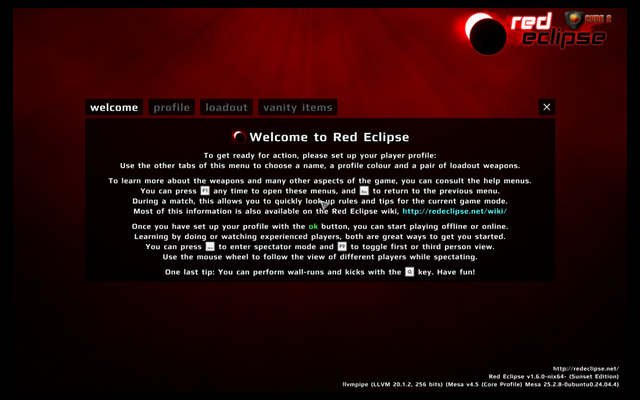
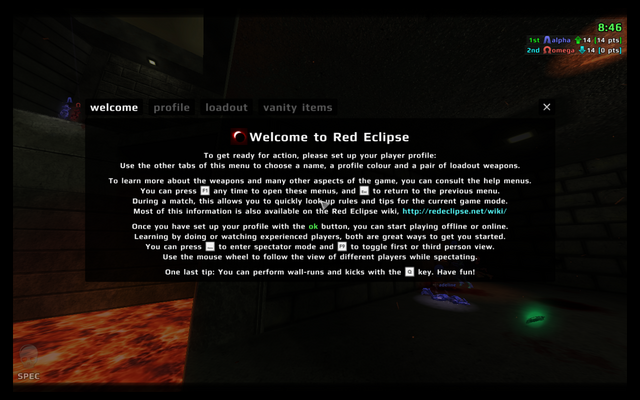
docs: Red Eclipse bot match

diff --git a/docs/GUI.md b/docs/GUI.md
@@ -26,7 +26,7 @@ Neverball, Extreme Tux Racer, OpenArena, Minetest, Warzone 2100 and glxgears all
 `docs/screenshots/blender-hostgl.png`), Stellarium 24.4 (Qt 6, 13 FPS:
 `docs/screenshots/stellarium-hostgl.png`) and Godot 3.5 — the editor and a GLES3 3D scene with
 shadows at 28 FPS, where the time goes to the host's llvmpipe, not to translated code
-(`docs/screenshots/godot3-hostgl.png`). Red Eclipse (GL 4.5 core) reaches its menu and Trigger
+(`docs/screenshots/godot3-hostgl.png`). Red Eclipse (GL 4.5 core) plays a bot match (`redeclipse "-xstart abuse 2 0"`) and Trigger
 Rally races (driven with xdotool) (`docs/screenshots/redeclipse-hostgl.png`, `trigger-rally-hostgl.png`).
 
 EGL (X11 platform) and GLES go through the same shim (`libEGL.so.1`, `libGLESv2.so.2`,
